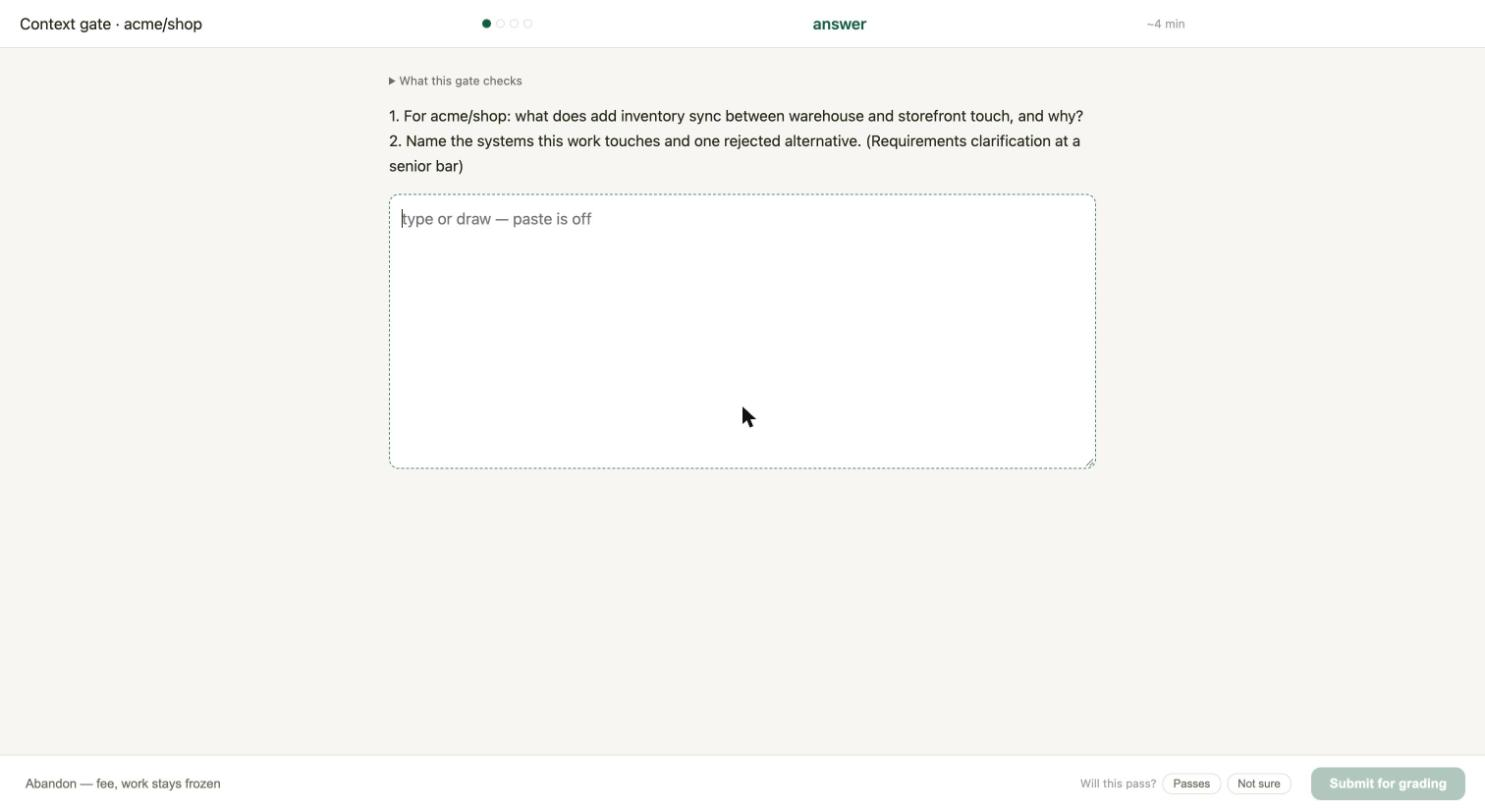
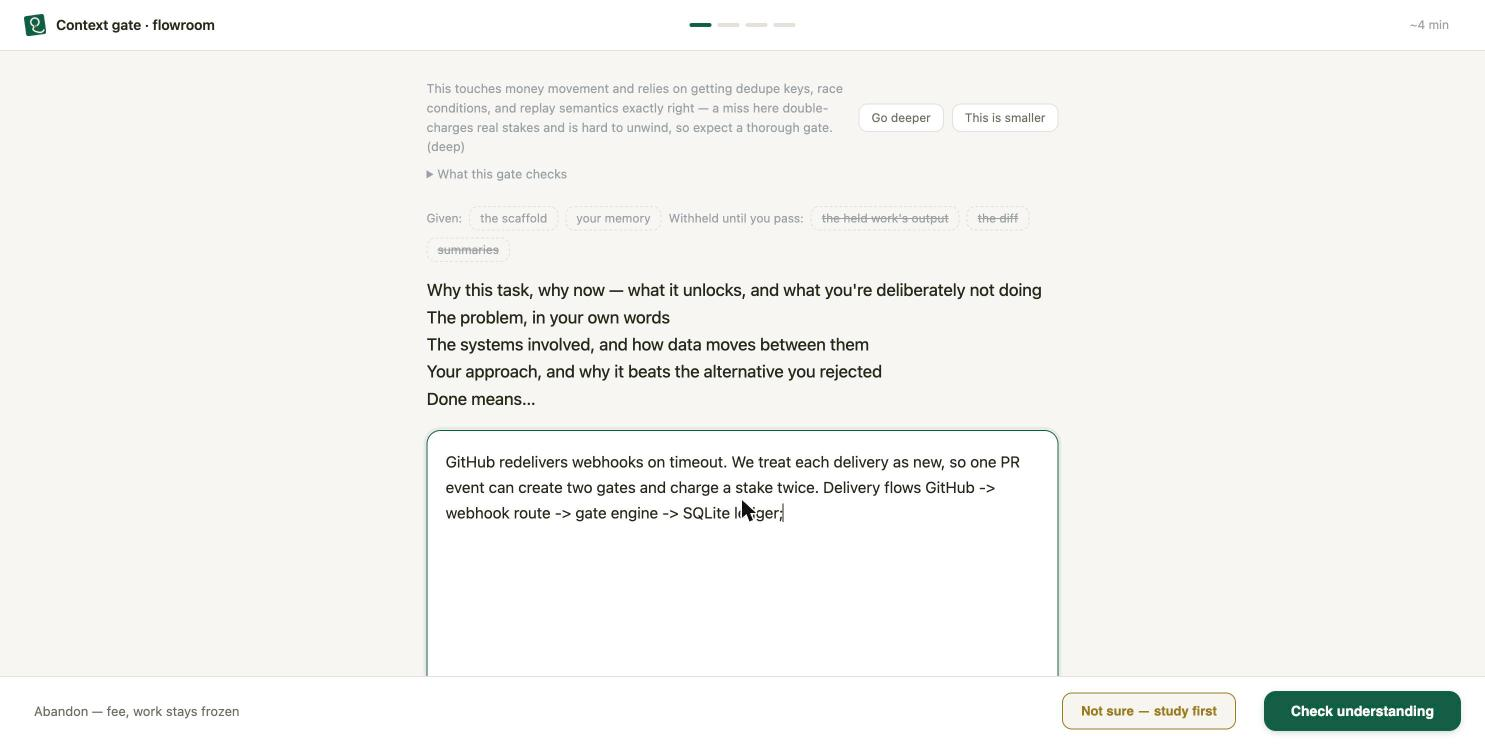
Landing matches the shipped UI: two-door footer (Check understanding / Not sure — study first), study-room shot + copy (own page, lesson from your work, no answer box), fresh real-gate capture with sizing rationale

diff --git a/index.html b/index.html
@@ -398,9 +398,8 @@
           <div class="prompt">Done means…</div>
         </div>
         <div class="lockfoot">
-          <button class="btn quiet picked">This passes</button>
-          <button class="btn quiet">Not sure</button>
-          <button class="btn primary">Submit</button>
+          <button class="btn quiet">Not sure — study first</button>
+          <button class="btn primary">Check understanding</button>
           <span class="abandon">Abandon, $5 <small>· work stays frozen, gate resumes</small></span>
         </div>
       </div>
@@ -411,7 +410,7 @@
   <!-- 4 · GAP MAP -->
   <section class="stage" id="s4">
     <div class="stage-head"><span class="n">4</span><h2>See exactly what you’re missing</h2></div>
-    <p class="note">Never a score, your own words, marked up. At most four gaps, one pushback question each. Then you rewrite from scratch. If you need the material again, re-study is timed, with a tutor that never answers the gate.</p>
+    <p class="note">Never a score, your own words, marked up. At most four gaps, one pushback question each. Then you rewrite from scratch. If you need the material again — or you tap “Not sure” before spending the attempt — the study room opens as its own page: a lesson written from your actual work, flow pictures where they help, a tutor that never answers the gate. The answer box is never on the same screen as the material.</p>
     <div class="frame">
       <div class="titlebar lock"><span class="tname">Task gate · attempt 1, close, not yet</span><div class="tright"><span class="est">rewrite from scratch to continue</span></div></div>
       <div class="screen">
@@ -570,7 +569,8 @@
     <div class="stage-head"><span class="n">✓</span><h2>This is the real app, running</h2></div>
     <p class="note">Not mockups: a live session, captured today. The gap map and difficulty bars above ship next.</p>
     <div class="shotgrid">
-      <div class="shot"><figure><img src="real-gate.jpg" alt="The lock window holding a prompt: Context gate, questions, closed-book answer box, confidence tap and submit in the footer" loading="lazy"><figcaption><b>The gate, live.</b> A real prompt held, questions cite the actual repo; paste is off; confidence tap before submit.</figcaption></figure></div>
+      <div class="shot"><figure><img src="real-gate.jpg" alt="The lock window holding a prompt: Context gate, sizing rationale, scaffold, closed-book answer box, with Not sure — study first and Check understanding in the footer" loading="lazy"><figcaption><b>The gate, live.</b> A real prompt held, sized with a visible rationale; paste is off; two doors — check your understanding, or admit you’re not sure and study first.</figcaption></figure></div>
+      <div class="shot"><figure><img src="real-study.jpg" alt="The study room: a lesson written from the actual work — at-least-once delivery, idempotency keys — with a tutor and a countdown, and no answer box in sight" loading="lazy"><figcaption><b>Not sure? The study room.</b> Its own page — a lesson written from your actual work, a tutor that never answers the gate, and no answer box to copy into. No grade spent, no fee.</figcaption></figure></div>
       <div class="shot"><figure><img src="real-debrief.jpg" alt="Passed, the debrief: what you said beside what an expert covers" loading="lazy"><figcaption><b>Passed, the debrief.</b> Your answer beside what an expert covers; then the prompt releases.</figcaption></figure></div>
       <div class="shot"><figure><img src="real-today.jpg" alt="Today: a declared task with countdown and gate chain, money at risk, gates waiting on you as clickable pills" loading="lazy"><figcaption><b>Today.</b> A live task with its countdown and gate chain, and the gates waiting on you.</figcaption></figure></div>
       <div class="shot"><figure><img src="real-settings.jpg" alt="Settings: per-gate rubrics, add-your-own requirements, depth controls" loading="lazy"><figcaption><b>Settings.</b> Every gate's bar is visible and extensible, built-ins can never be removed; loosening takes 48h.</figcaption></figure></div>
